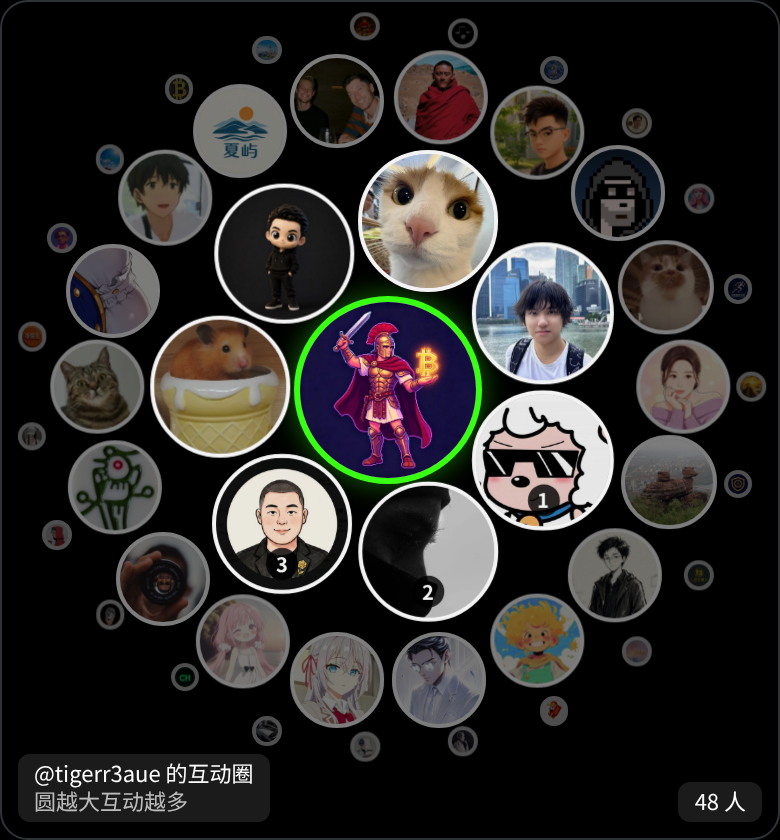
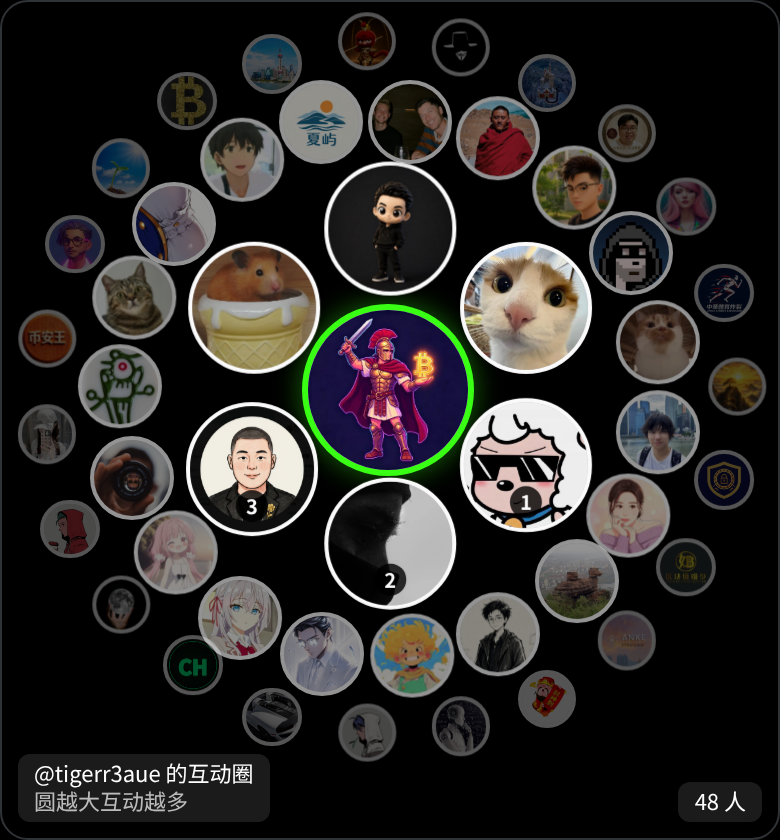
data: 2026-10-15 16:36 CST

diff --git a/index.html b/index.html
@@ -7,7 +7,7 @@
 <meta name="description" content="每小时更新 X 上中文币圈 24 小时爆帖：曝光榜、评论榜、涨粉榜、照片墙。">
 <meta name="theme-color" content="#000000">
 <link rel="preload" href="data.json" as="fetch" crossorigin>
-<link rel="stylesheet" href="style.css?v=20261015163406">
+<link rel="stylesheet" href="style.css?v=20261015163625">
 </head>
 <body>
 <header>
@@ -58,7 +58,7 @@
 </footer>
 
 
-<script>window.ASSET_V="20261015163406"</script><script src="config.js?v=20261015163406"></script>
-<script src="app.js?v=20261015163406" defer></script>
+<script>window.ASSET_V="20261015163625"</script><script src="config.js?v=20261015163625"></script>
+<script src="app.js?v=20261015163625" defer></script>
 </body>
 </html>

diff --git a/app.js b/app.js
@@ -82,10 +82,7 @@ function wallPeople(pw) {
   (pw.extra || []).forEach(u => add(u, true));
   return out;
 }
-function peopleRad(ppl) {
-  const mx = Math.max(1, ...ppl.map(u => u.count || 0));
-  return i => { const u = ppl[i]; if (u.self) return 64; if (u.extra) return 10 + hsh(u.handle) % 5; return 14 + 34 * Math.sqrt(u.count / mx); };
-}
+function peopleRad(ppl) { return i => 64 / Math.pow(i + 1, 0.42) + 9; }   // 与 24h 照片墙统一：按名次平滑递减
 let wallTok = 0;
 async function renderPersonalWall() {
   const tok = ++wallTok, el = $("#wall"), h = PW.h;
